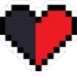
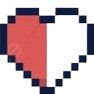
дороблене хп нові картинки для нього та додано хелпер

diff --git a/main.py b/main.py
@@ -33,14 +33,17 @@ player_img = transform.scale(player_img, (TILE_SIZE, TILE_SIZE))
 coin_img = image.load("images/coin.png")
 coin_img = transform.scale(coin_img, (TILE_SIZE, TILE_SIZE))
 
-health_img = image.load("images/health_full.png")
+health_img = image.load("images/health_full1.png")
 health_img = transform.scale(health_img, (TILE_SIZE, TILE_SIZE))
 
-health_half = image.load("images/health_half.png")
+health_half = image.load("images/health_half11.png")
 health_half = transform.scale(health_half, (TILE_SIZE, TILE_SIZE))
 
 health_zero = image.load("images/health_zero.png")
 health_zero = transform.scale(health_zero, (TILE_SIZE, TILE_SIZE))
+
+hp_help_img = image.load("images/hp_help.png")
+hp_help_img = transform.scale(hp_help_img, (TILE_SIZE, TILE_SIZE))
 
 #groops
 all_sprites = sprite.Group()
@@ -48,6 +51,7 @@ all_map_sprite = sprite.Group()
 all_labels = sprite.Group()
 walls = sprite.Group()
 coins = sprite.Group()
+hp_helpers = sprite.Group()
 
 
 
@@ -89,11 +93,11 @@ def move_map(shift_x= 0, shift_y=0):
         for s in all_map_sprite:
             s.rect.x -= shift_x
             s.rect.y -= shift_y
-            now = time.get_ticks()
-            if now-player.damage_timer > 1000:
-                player.damage_timer = time.get_ticks()
-                player.hp -= 10
-                #health_label.set_text(f"Health: {player.hp}")
+        now = time.get_ticks()
+        if now-player.damage_timer > 1000:
+            player.damage_timer = time.get_ticks()
+            player.hp -= 10
+            health_bar.hp = player.hp
 
 #class for player
 class Player(BaseSprite):
@@ -138,6 +142,13 @@ class Player(BaseSprite):
             self.coins_counter += 1
             coins_label.set_text(f"Coins: {self.coins_counter}")
 
+        coll_list = sprite.spritecollide(player, hp_helpers, True, sprite.collide_mask)
+        if len(coll_list) > 0:
+            self.hp += 20
+            if self.hp > 100:
+                self.hp = 100
+            health_bar.hp = self.hp
+
 class Health(sprite.Sprite):
     def __init__(self, x, y, hp):
         super().__init__()
@@ -153,11 +164,11 @@ class Health(sprite.Sprite):
         for i in range(0, 5):
             current_hp = self.hp - i * 20
             if current_hp >= 20:
-                window.blit(self.full, (x, y))
+                window.blit(self.full, (x, self.y))
             elif current_hp >= 10:
-                window.blit(self.half, (x, y))
+                window.blit(self.half, (x, self.y))
             else:
-                window.blit(self.zero, (x, y))
+                window.blit(self.zero, (x, self.y))
             
             x += TILE_SIZE + 5
 
@@ -178,12 +189,16 @@ with open("map.txt", "r") as file:
                     player = Player(player_img, x, y, TILE_SIZE, TILE_SIZE)
                 if symbol == "c":
                     all_map_sprite.add(BaseSprite(floor_img, x, y, TILE_SIZE, TILE_SIZE))
-                    map_object = BaseSprite(coin_img, x, y, TILE_SIZE/2, TILE_SIZE/2)
+                    map_object = BaseSprite(coin_img, x, y, TILE_SIZE/1.5, TILE_SIZE/1.5)
                     coins.add(map_object)
                 if symbol == ".":
                     map_object = BaseSprite(floor_img, x, y, TILE_SIZE, TILE_SIZE)
                 if symbol == "b":
                     map_object = BaseSprite(block_img, x, y, TILE_SIZE, TILE_SIZE)
+                if symbol == "h":
+                    all_map_sprite.add(BaseSprite(floor_img, x, y, TILE_SIZE, TILE_SIZE))
+                    map_object = BaseSprite(hp_help_img, x, y, TILE_SIZE/1.5, TILE_SIZE/1.5)
+                    hp_helpers.add(map_object)
                 if map_object:
                     all_map_sprite.add(map_object)
                 x += TILE_SIZE 
@@ -191,8 +206,8 @@ with open("map.txt", "r") as file:
             y += TILE_SIZE 
 
 #labels
-coins_label = Label(f"Coins: {player.coins_counter}", 10, 10)
-health_bar = Health(10, 50, player.hp)
+coins_label = Label(f"Coins: {player.coins_counter}", 10, 60)
+health_bar = Health(10, 10, player.hp)
 
 
 run = True
